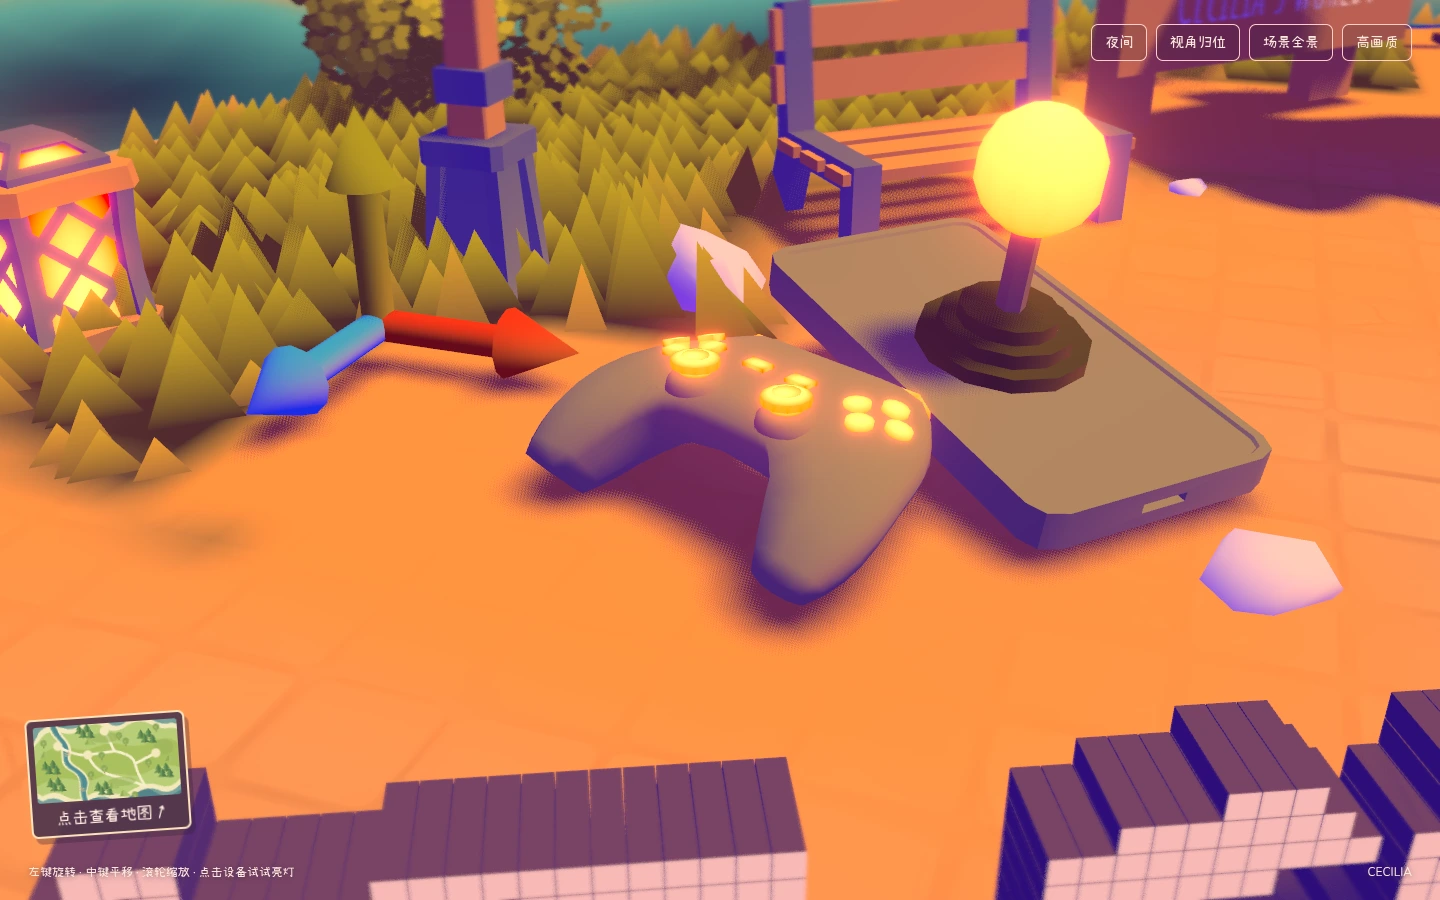
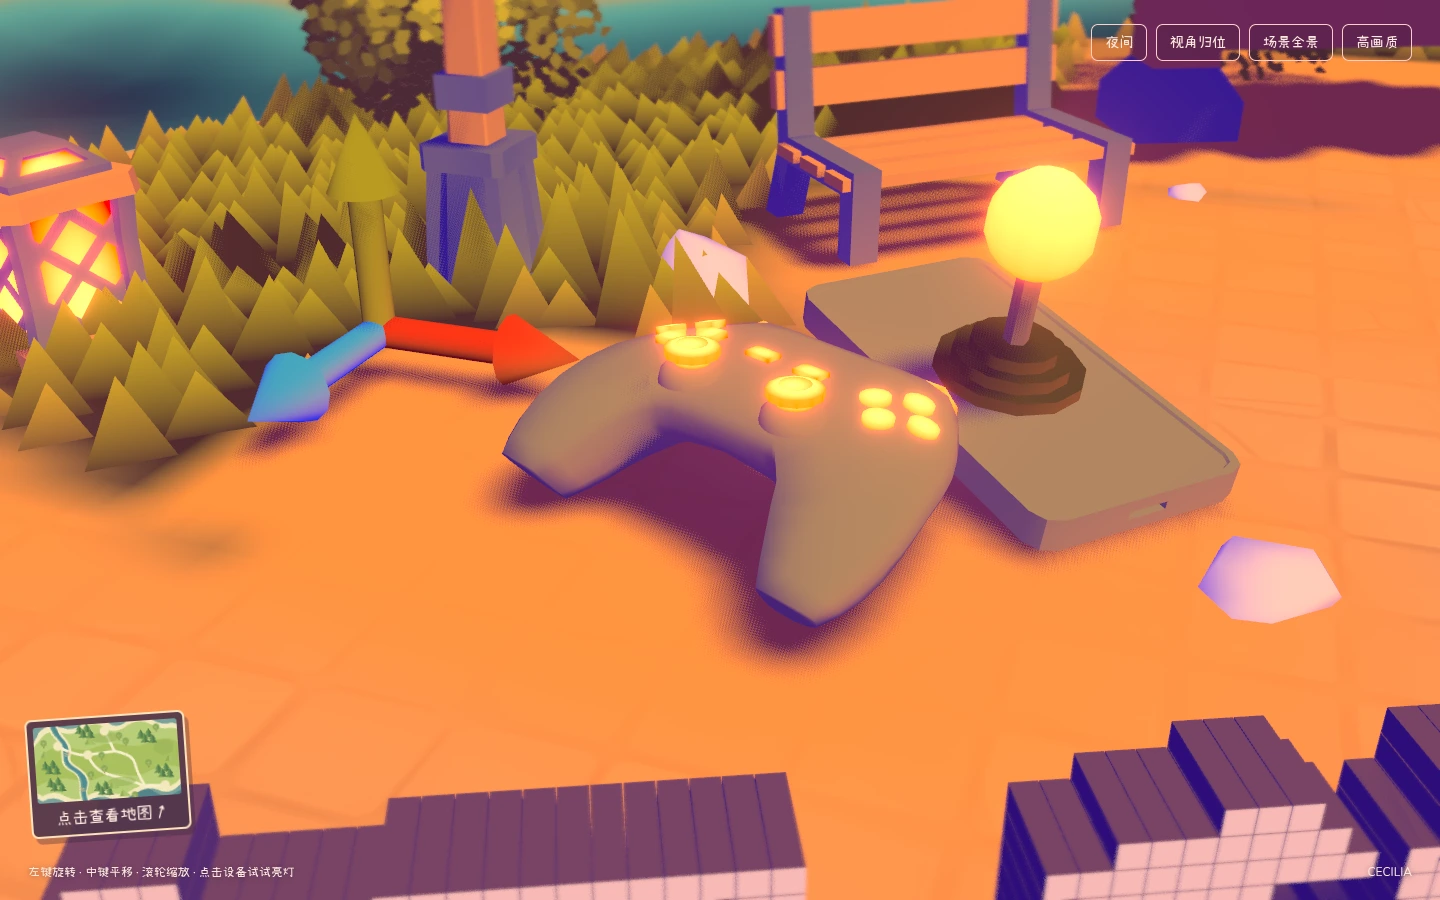
Apply Figma scene revisions, grounded resume preview and unified landing views

diff --git a/experiments/bruno-projects/src/hub.js b/experiments/bruno-projects/src/hub.js
@@ -228,13 +228,13 @@ function go(next, historyMode = "push") {
       ? "左键旋转 · 中键平移 · 滚轮缩放 · 点击设备试试亮灯"
       : `${labels[place]} · 拖动观察 · 点击模型${place === "contact" ? "写邮件" : "完整阅读"} · Esc 返回首页`;
   if (world && targetLook) {
-    world.camera.fov = place === "home" ? (innerWidth < 700 ? 40 : 25) : (innerWidth < 700 ? 58 : 40);
+    world.camera.fov = place === "home" ? (innerWidth < 700 ? 40 : 25) : (innerWidth < 700 ? 58 : stations.get(place)?.fov || 36);
     world.camera.updateProjectionMatrix();
     const station = stations.get(place);
     targetLook.copy(station ? station.focus : landingView.focus);
     targetDistance = station ? station.distance : landingView.distance;
-    targetYaw = station ? 0.35 : landingView.yaw;
-    targetPitch = station ? 1 : landingView.pitch;
+    targetYaw = station ? station.yaw : landingView.yaw;
+    targetPitch = station ? station.pitch : landingView.pitch;
     if (reduced) {
       currentLook.copy(targetLook);
       currentDistance = targetDistance;
@@ -305,7 +305,6 @@ try {
   identity = fixtures.nameModel();
   fixtures.reserveExisting(scene.getObjectByName("benchPhysicalDynamic001"));
   const crates = fixtures.nativeCrates();
-  const welcome = fixtures.welcomeSign();
   let effectTime=0, mapFlashAt=-100;
   const mapBrightness=uniform(1);
   const career = original.getObjectByName("career").clone(true);
@@ -315,7 +314,10 @@ try {
   });
   clean(career);
   scene.add(career);
-  const resumeCorner = fixtures.resumeCorner(original);
+  const resumeTexture = await world.textures.loadAsync(world.asset("ui/resume-preview.webp"));
+  resumeTexture.colorSpace=T.SRGBColorSpace;
+  const resumeCorner = fixtures.resumeCorner(original,resumeTexture);
+  const resumePreview=resumeCorner.getObjectByName("resume-preview-board");
   const project = original.getObjectByName("projects").clone(true);
   for (const child of [...project.children])
     if (
@@ -374,10 +376,10 @@ try {
   for(const name of ["physicalFixed003","physicalFixed009"]) {
     const child=landing.getObjectByName(name); if(child)kioskRoot.attach(child);
   }
-  const kioskCenter=new T.Box3().setFromObject(kioskRoot,true).getCenter(new T.Vector3());
   fixtures.levelKiosk(kioskRoot,kioskRoot.getObjectByName("physicalFixed009"),kioskFace);
-  fixtures.parcel(kioskRoot,kioskCenter.x,kioskCenter.z,2,{plaza:true,radius:3,precise:true,supportName:"physicalFixed009"});
-  const pixelHand=fixtures.pixelPointer();
+  fixtures.parcel(kioskRoot,42,31.5,2,{plaza:true,radius:1,precise:true,supportName:"physicalFixed009"});
+  const welcome = fixtures.welcomeSign();
+  const pixelHand=fixtures.pixelPointer(mapBrightness);
   if(kioskFace){
     const g=kioskFace.geometry,p=g.attributes.position;
     const p0=new T.Vector3().fromBufferAttribute(p,0),p1=new T.Vector3().fromBufferAttribute(p,1),p2=new T.Vector3().fromBufferAttribute(p,2);
@@ -404,18 +406,23 @@ try {
     );
     const focusWithLabel = focus.clone();
     focusWithLabel.y += 1;
-    stations.set(key, { root, label, focus: focusWithLabel, distance });
+    stations.set(key, { root, label, focus: focusWithLabel, distance, yaw:.55,pitch:1.05,fov:36 });
     pickables.push({ root, key }, { root: label, key });
   }
   station("resume", resumeCorner, "个人简历", 14);
   station("portfolio", project, "作品集", 20);
   station("other", lab, "其他项目", 16);
   station("contact", social, "联系方式", 12);
+  Object.assign(stations.get("resume"),{focus:new T.Vector3(25.4,1.8,24.3),distance:15,yaw:.5,pitch:.99});
+  Object.assign(stations.get("other"),{distance:16,yaw:.55,pitch:1.18});
+  Object.assign(stations.get("contact"),{distance:12.5,yaw:.35,pitch:1.1,fov:34});
+  // Include the freestanding wood sign, rather than centering only the mailbox.
+  stations.get("contact").focus.add(new T.Vector3(-1.3,-.6,0));
   const landingBounds = new T.Box3().setFromObject(identity);
   for (const root of devices.roots) landingBounds.union(new T.Box3().setFromObject(root));
   // Match the upstream landing's focus behind the letters, adapted to our
   // longer bilingual name. Do not let unrelated station bounds move this pose.
-  const landingCenter = new T.Vector3(identity.userData.parcel.x-.5,.9,identity.userData.parcel.z-3.7);
+  const landingCenter = new T.Vector3(identity.userData.parcel.x-.7,1.8,identity.userData.parcel.z-3.3);
   const landingPoints = [];
   for (const root of [identity, ...devices.roots]) root.traverse(mesh => {
     if (!mesh.isMesh) return;
@@ -429,11 +436,11 @@ try {
     const aspect = innerWidth / innerHeight,
       fov = innerWidth < 700 ? 40 : 25;
     const vertical = Math.tan(T.MathUtils.degToRad(fov / 2));
-    const yaw = Math.PI * .25, pitch = Math.PI * .27;
+    const yaw = .55, pitch = 1.02;
     const forward = new T.Vector3().setFromSpherical(new T.Spherical(1, pitch, yaw));
     const right = new T.Vector3().crossVectors(new T.Vector3(0, 1, 0), forward).normalize();
     const up = new T.Vector3().crossVectors(forward, right).normalize();
-    let distance = 31; // Same 25° lens; fit our longer bilingual sculpture.
+    let distance = 30; // Frontal entry composition, fitted to the bilingual sculpture.
     for (const point of landingPoints) {
       const v = point.clone().sub(landingCenter), near = v.dot(forward);
       distance = Math.max(distance, near + Math.abs(v.dot(right)) / (vertical * aspect * .85), near + Math.abs(v.dot(up)) / (vertical * .8));
@@ -528,6 +535,7 @@ try {
   function pick(x, y) {
     pointer.set((x / innerWidth) * 2 - 1, (-y / innerHeight) * 2 + 1);
     ray.setFromCamera(pointer, camera);
+    if(place === "resume" && resumePreview && ray.intersectObject(resumePreview,true).length)return "resume-preview";
     if (place === "home") {
       const hits = devices.roots.flatMap(root => ray.intersectObject(root, true).map(hit => ({ ...hit, root })));
       hits.sort((a, b) => a.distance - b.distance);
@@ -597,6 +605,7 @@ try {
     if (pointers.size) return;
     if (!drag && !pinched && pressed) {
       if (pressed === "map") navigationMap.open();
+      else if(pressed === "resume-preview")openCurrent();
       else if (pressed.isObject3D) devices.hit(pressed);
       else if (place === pressed) openCurrent();
       else go(pressed);
@@ -622,7 +631,7 @@ try {
   );
   function resize() {
     camera.aspect = innerWidth / innerHeight;
-    camera.fov = place === "home" ? (innerWidth < 700 ? 40 : 25) : (innerWidth < 700 ? 58 : 40);
+    camera.fov = place === "home" ? (innerWidth < 700 ? 40 : 25) : (innerWidth < 700 ? 58 : stations.get(place)?.fov || 36);
     camera.updateProjectionMatrix();
     renderer.setSize(innerWidth, innerHeight);
     game.viewport.width = innerWidth;

diff --git a/experiments/bruno-projects/src/scene-fixtures.js b/experiments/bruno-projects/src/scene-fixtures.js
@@ -200,7 +200,7 @@ export function createFixtures(world) {
       }
     }
   }
-  function resumeCorner(original) {
+  function resumeCorner(original,previewTexture) {
     const root = new T.Group();
     root.name = "resume-reading-corner";
     const desk = original.getObjectByName("projects").clone(true);
@@ -243,7 +243,37 @@ export function createFixtures(world) {
       );
       pen.rotation.z = (i - 1) * 0.14;
     }
-    parcel(root, 26, 24);
+    if(previewTexture){
+      const stand=new T.Group();stand.name="resume-preview-board";
+      // The native table mesh also includes raised props. Sample the actual
+      // surface beneath both support posts, not its highest bounding-box point.
+      const supportRay=new T.Raycaster();let support,score=Infinity;
+      for(let dz=-1.5;dz<=1.5;dz+=.1)for(let dx=-1.5;dx<=1.5;dx+=.1){
+        const x=-.45+dx,z=-.1+dz,heights=[];
+        for(const offset of [-.58,.58]){
+          const foot=new T.Vector3(offset,0,0).applyAxisAngle(new T.Vector3(0,1,0),.25).add(new T.Vector3(x,deskBox.max.y+1,z));
+          supportRay.set(foot,new T.Vector3(0,-1,0));
+          const hit=supportRay.intersectObject(desk,true)[0];
+          if(hit&&hit.point.y>deskBox.max.y*.5)heights.push(hit.point.y);
+        }
+        if(heights.length===2&&Math.abs(heights[0]-heights[1])<.025&&dx*dx+dz*dz<score){
+          support={x,z,heights};score=dx*dx+dz*dz;
+        }
+      }
+      if(!support)throw new Error("简历预览板未找到两脚均可支撑的桌面");
+      const supportHeights=support.heights,tabletop=Math.max(...supportHeights);
+      stand.position.set(support.x,tabletop,support.z);
+      stand.userData.supportY=tabletop;
+      stand.userData.supportGaps=supportHeights.map(y=>tabletop-y);
+      stand.rotation.y=.25;
+      for(const x of [-.58,.58])box(stand,[.10,.85,.12],[x,.425,0],"edge");
+      box(stand,[2.05,2.88,.12],[0,1.75,0],"wood");
+      const page=new T.Mesh(new T.PlaneGeometry(1.87,2.645),material({colorNode:texture(previewTexture).rgb,hasWater:false}));
+      page.name="actual-resume-first-page";page.position.set(0,1.75,.068);stand.add(page);
+      stand.userData.document="resume.html?document=1";stand.userData.preview="ui/resume-preview.webp";
+      root.add(stand);
+    }
+    parcel(root, 26, 24,1,{precise:true});
     return root;
   }
   function contactCorner(original) {
@@ -279,8 +309,8 @@ export function createFixtures(world) {
     box(phone, [0.45, 0.08, 0.78], [0, 0, 0], "edge");
     box(phone, [0.36, 0.02, 0.56], [0, 0.052, -0.03], "teal");
     box(phone, [0.07, 0.025, 0.035], [0, 0.055, 0.3], "cream");
-    root.rotation.y = 0.2;
-    parcel(root, 47, 29);
+    root.rotation.y = .35;
+    parcel(root, 54,43.5,1.25,{plaza:true,radius:3,precise:true});
     return root;
   }
   function nameModel() {
@@ -388,7 +418,8 @@ export function createFixtures(world) {
       label.position.set(0,y,.22);
       root.add(label);
     }
-    parcel(root,39.955,32.219,1.65,{plaza:true,radius:1});
+    root.rotation.set(0,.28,0);
+    parcel(root,48.6,32.3,1.65,{plaza:true,radius:0,precise:true});
     root.userData.text="Welcome to Cecilia’s world.";
     return root;
   }
@@ -396,8 +427,8 @@ export function createFixtures(world) {
     const source = original.getObjectByName("landing");
     const devices = [], animated = [];
     const definitions = [
-      ["gamepadPhysicalDynamic001", "gamepad", 37.9, 40.8, .55],
-      ["phonePhysicalDynamic001", "joystick", 39, 39.5, .78],
+      ["gamepadPhysicalDynamic001", "gamepad", 37.9, 40.8, .62],
+      ["phonePhysicalDynamic001", "joystick", 39, 39.5, .68],
       ["gizmoPhysicalDynamic", "gizmo", 36, 40.3, .75],
     ];
     for (const [sourceName, kind, x, z, scale] of [...definitions].sort((a,b)=>(a[1]==="gamepad")-(b[1]==="gamepad"))) {
@@ -412,7 +443,7 @@ export function createFixtures(world) {
         root.rotation.set(0,yaw,0,"YXZ");
       }
       parcel(root, x, z, scale, { plaza: true, radius:0,hull:true,
-        supportName:kind==="gamepad"?"body002":undefined, precise:kind==="gamepad" });
+        supportName:kind==="gamepad"?"body002":kind==="joystick"?"phonePhysicalDynamic":undefined, precise:kind!=="gizmo" });
       root.userData.kind = kind;
       devices.push(root);
       const movers = [];
@@ -451,13 +482,14 @@ export function createFixtures(world) {
     devices.sort((a,b)=>definitions.findIndex(d=>d[1]===a.userData.kind)-definitions.findIndex(d=>d[1]===b.userData.kind));
     return { roots: devices, hit, hover, update };
   }
-  function pixelPointer() {
+  function pixelPointer(lightPower) {
     const root=new T.Group();root.name="frame-pixel-finger";
     const pattern=["000110000","000110000","000110000","000110000","000111110","000111111","111111111","111111111","011111111","001111110","001111110"];
     const active=new Set(),outline=new Set(),cell=.045;
     pattern.forEach((row,y)=>[...row].forEach((v,x)=>{if(v==="1")active.add(`${x},${y}`);}));
     for(const key of active){const[x,y]=key.split(",").map(Number);for(let dx=-1;dx<=1;dx++)for(let dy=-1;dy<=1;dy++)outline.add(`${x+dx},${y+dy}`);}
-    for(const[points,mat,z,depth]of[[outline,materials.edge,0,.07],[active,materials.cream,.04,.08]]) {
+    const front=lightPower?material({colorNode:color(colors.cream).mul(lightPower),hasWater:false}):materials.cream;
+    for(const[points,mat,z,depth]of[[outline,materials.edge,0,.07],[active,front,.04,.08]]) {
       const mesh=new T.InstancedMesh(new T.BoxGeometry(cell*.97,cell*.97,depth),mat,points.size),matrix=new T.Matrix4();
       [...points].forEach((key,i)=>{const[x,y]=key.split(",").map(Number);mesh.setMatrixAt(i,matrix.makeTranslation((x-4)*cell,(5-y)*cell,z));});
       mesh.instanceMatrix.needsUpdate=true;mesh.castShadow=true;root.add(mesh);

diff --git a/experiments/bruno-projects/src/hub.css b/experiments/bruno-projects/src/hub.css
@@ -171,7 +171,7 @@ header > div {
 .map-location:hover span,.map-location[aria-current="true"] span { background:var(--pin); color:#fff3d6; }
 .map-you { position:absolute; left:75.5%; top:79.5%; transform:translate(-50%,-50%); font-size:16px; white-space:nowrap; color:#8b5657; text-align:center; }
 .map-you span { display:block; font-size:28px; filter:drop-shadow(0 3px 0 #fff3d6); }
-.map-you b { display:block; padding:3px 9px; border-radius:14px; background:#fff3d6e8; font-weight:400; }
+.map-you b { display:block; position:relative; left:-35px; padding:3px 9px; border-radius:14px; background:#fff3d6e8; font-weight:400; }
 .map-caption { margin:12px 3px 2px; font-size:17px; display:flex; justify-content:space-between; gap:12px; }
 .map-caption > span { color:#9b8476; font-size:13px; }
 @media(prefers-reduced-motion:no-preference) {

diff --git a/experiments/bruno-projects/src/world-map.js b/experiments/bruno-projects/src/world-map.js
@@ -12,7 +12,7 @@ export function createWorldMap(go) {
     { key: "resume", title: "个人简历", x: 37, y: 42, color: "#ae6d69" },
     { key: "portfolio", title: "作品集", x: 49.5, y: 18, color: "#867398" },
     { key: "other", title: "其他项目", x: 16.6, y: 30.8, color: "#b28a50" },
-    { key: "contact", title: "联系方式", x: 84.2, y: 44.9, color: "#698f83" },
+    { key: "contact", title: "联系方式", x: 89.2, y: 79.5, color: "#698f83" },
   ];
   for (const site of sites) {
     const button = document.createElement("button");

diff --git a/experiments/bruno-projects/src/create-world.js b/experiments/bruno-projects/src/create-world.js
@@ -398,6 +398,8 @@ export async function createWorld(canvas, progress) {
   ])
     for (const child of [...game.resources[key].scene.children])
       if (key === "sceneryModel" || near(child)) {
+        // Figma 45:1110 explicitly removes this one intersecting kiosk lantern.
+        if(key==="lanternsModel"&&child.name==="lantern015")continue;
         // Keep the native entrance lamp, but out of the new name's silhouette.
         if (key === "poleLightsModel" && child.name === "poleLight001") {
           child.position.x = 35.5;

diff --git a/experiments/bruno-projects/README.md b/experiments/bruno-projects/README.md
@@ -32,3 +32,11 @@
 入口回归执行 `node tests/portfolio-routing.cjs`。
 全站回归执行 `node tests/design-world.cjs`，包括实际模型点击、简历、两件其他项目、联系方式、手机与真实渲染截图。
 动画回归执行 `node tests/bruno-animation.cjs`：直接跨越四次铁砧敲击边界，验证静音对象已初始化、渲染继续运行、作品切换和阅读返回正常。覆盖显式 WebGL 和默认自动选择渲染器，避免低帧率测试机尚未到达敲击时刻而漏报。
+
+## Figma 标注修订（2026-10-29）
+
+依据“修改”页的六项意见：首页采用更正面的姓名近景，所有归位入口共用同一姿态；地图牌左移、欢迎牌在右侧反向斜摆（字不镜像），仅删除重叠的 lantern015。手柄比例 .62、摇杆 .68，使用可见实体几何核验支撑高度。框上的独立像素手指与地图共用一次闪光强度。
+
+简历桌后新增可直接点击的竖向木框预览，`public/ui/resume-preview.webp` 是原有 `resume.html?document=1` 的 A4 第一页浏览器打印缩略图。正文、打印样式及作品文件不修改；更新简历内容时应同步刷新这张缩略图。其他项目采用正面较低镜头；联系方式整体搬至入口岸边，朝向镜头，不复制旧路灯，地图联系方式标记与支路同步调整。
+
+`node tests/figma-revisions.cjs` 检查分类镜头、简历板直接点击与归位；`node tests/visible-support.cjs` 核验地图牌两脚、手柄真实顶点落地；`node tests/landing-controls.cjs` 检查中键平移、左键旋转、设备灯光及精确归位。
